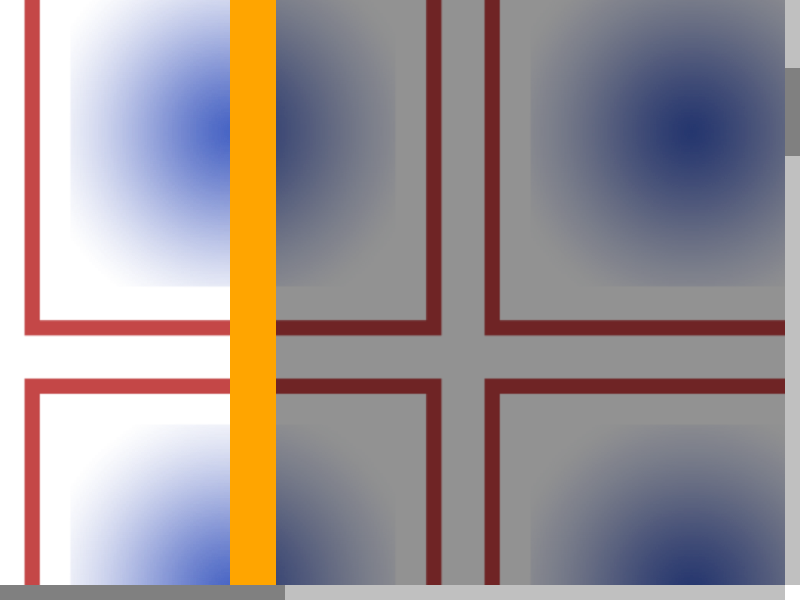
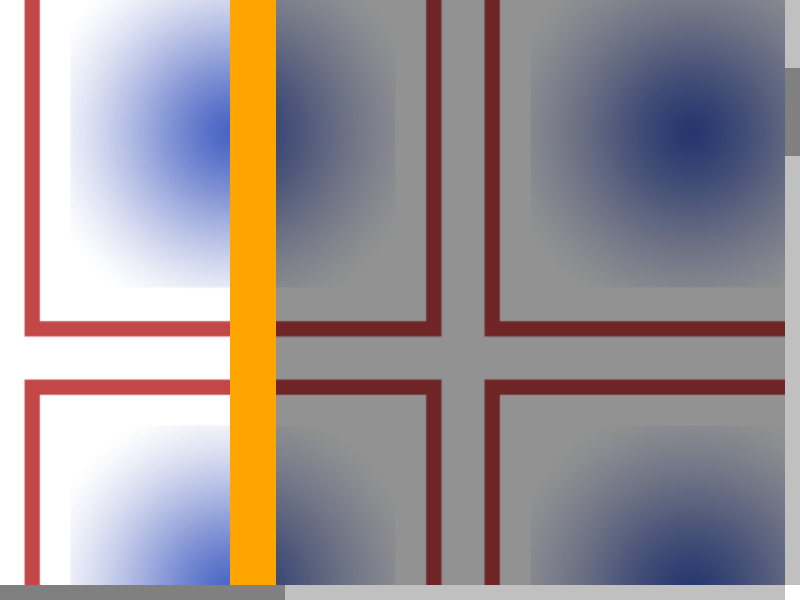
Change scrollOffsetForFixedPosition() to do LayoutUnit math https://bugs.webkit.org/show_bug.cgi?id=129981
Reviewed by Beth Dakin.

Source/WebCore:

FrameView::scrollOffsetForFixedPosition() returned an IntSize,
but to allow subpixel scroll offsets, we need it to return a LayoutSize.

Fix code that calls this to use more LayoutUnit math.

This progresses fixed background images on zoom, which cam now be subpixel
positioned.

* WebCore.exp.in:
* page/FrameView.cpp:
(WebCore::FrameView::viewportConstrainedVisibleContentRect):
(WebCore::FrameView::scrollOffsetForFixedPosition):
* page/FrameView.h:
* page/scrolling/AsyncScrollingCoordinator.cpp:
(WebCore::AsyncScrollingCoordinator::updateScrollPositionAfterAsyncScroll):
* platform/ScrollableArea.cpp:
(WebCore::ScrollableArea::constrainScrollPositionForOverhang):
* platform/ScrollableArea.h:
* rendering/RenderBoxModelObject.cpp:
(WebCore::RenderBoxModelObject::calculateBackgroundImageGeometry):
* rendering/RenderLayer.cpp:
(WebCore::RenderLayer::calculateClipRects):
* rendering/RenderLayerBacking.cpp:
(WebCore::RenderLayerBacking::updateGraphicsLayerGeometry):
* rendering/RenderLayerCompositor.cpp:
(WebCore::RenderLayerCompositor::updateScrollLayerPosition):

LayoutTests:

FrameView::scrollOffsetForFixedPosition() returned an IntSize,
but to allow subpixel scroll offsets, we need it to return a LayoutSize.

Update test results for the progression.

* platform/mac-wk2/tiled-drawing/fixed-background/fixed-body-background-zoomed-expected.png:
* platform/mac-wk2/tiled-drawing/fixed-background/fixed-body-background-zoomed-expected.txt:
[…]

diff --git a/Source/WebCore/platform/ScrollableArea.cpp b/Source/WebCore/platform/ScrollableArea.cpp
@@ -35,6 +35,7 @@
 #include "GraphicsContext.h"
 #include "GraphicsLayer.h"
 #include "FloatPoint.h"
+#include "LayoutRect.h"
 #include "PlatformWheelEvent.h"
 #include "ScrollAnimator.h"
 #include "ScrollbarTheme.h"
@@ -477,13 +478,13 @@ IntRect ScrollableArea::visibleContentRectInternal(VisibleContentRectIncludesScr
                    std::max(0, visibleHeight() + horizontalScrollbarHeight));
 }
 
-IntPoint ScrollableArea::constrainScrollPositionForOverhang(const IntRect& visibleContentRect, const IntSize& totalContentsSize, const IntPoint& scrollPosition, const IntPoint& scrollOrigin, int headerHeight, int footerHeight)
+LayoutPoint ScrollableArea::constrainScrollPositionForOverhang(const LayoutRect& visibleContentRect, const LayoutSize& totalContentsSize, const LayoutPoint& scrollPosition, const LayoutPoint& scrollOrigin, int headerHeight, int footerHeight)
 {
     // The viewport rect that we're scrolling shouldn't be larger than our document.
-    IntSize idealScrollRectSize(std::min(visibleContentRect.width(), totalContentsSize.width()), std::min(visibleContentRect.height(), totalContentsSize.height()));
+    LayoutSize idealScrollRectSize(std::min(visibleContentRect.width(), totalContentsSize.width()), std::min(visibleContentRect.height(), totalContentsSize.height()));
     
-    IntRect scrollRect(scrollPosition + scrollOrigin - IntSize(0, headerHeight), idealScrollRectSize);
-    IntRect documentRect(IntPoint(), IntSize(totalContentsSize.width(), totalContentsSize.height() - headerHeight - footerHeight));
+    LayoutRect scrollRect(scrollPosition + scrollOrigin - LayoutSize(0, headerHeight), idealScrollRectSize);
+    LayoutRect documentRect(LayoutPoint(), LayoutSize(totalContentsSize.width(), totalContentsSize.height() - headerHeight - footerHeight));
 
     // Use intersection to constrain our ideal scroll rect by the document rect.
     scrollRect.intersect(documentRect);
@@ -500,10 +501,10 @@ IntPoint ScrollableArea::constrainScrollPositionForOverhang(const IntRect& visib
             scrollRect.move(0, -(idealScrollRectSize.height() - scrollRect.height()));
     }
 
-    return scrollRect.location() - toIntSize(scrollOrigin);
+    return scrollRect.location() - toLayoutSize(scrollOrigin);
 }
 
-IntPoint ScrollableArea::constrainScrollPositionForOverhang(const IntPoint& scrollPosition)
+LayoutPoint ScrollableArea::constrainScrollPositionForOverhang(const LayoutPoint& scrollPosition)
 {
     return constrainScrollPositionForOverhang(visibleContentRect(), totalContentsSize(), scrollPosition, scrollOrigin(), headerHeight(), footerHeight());
 }

diff --git a/Source/WebCore/page/FrameView.cpp b/Source/WebCore/page/FrameView.cpp
@@ -1538,6 +1538,7 @@ LayoutRect FrameView::viewportConstrainedVisibleContentRect() const
         return customFixedPositionLayoutRect();
 #endif
     LayoutRect viewportRect = visibleContentRect();
+
     viewportRect.setLocation(toLayoutPoint(scrollOffsetForFixedPosition()));
     return viewportRect;
 }
@@ -1554,9 +1555,9 @@ LayoutRect FrameView::viewportConstrainedExtentRect() const
 #endif
 }
 
-IntSize FrameView::scrollOffsetForFixedPosition(const IntRect& visibleContentRect, const IntSize& totalContentsSize, const IntPoint& scrollPosition, const IntPoint& scrollOrigin, float frameScaleFactor, bool fixedElementsLayoutRelativeToFrame, ScrollBehaviorForFixedElements behaviorForFixed, int headerHeight, int footerHeight)
+LayoutSize FrameView::scrollOffsetForFixedPosition(const LayoutRect& visibleContentRect, const LayoutSize& totalContentsSize, const LayoutPoint& scrollPosition, const LayoutPoint& scrollOrigin, float frameScaleFactor, bool fixedElementsLayoutRelativeToFrame, ScrollBehaviorForFixedElements behaviorForFixed, int headerHeight, int footerHeight)
 {
-    IntPoint position;
+    LayoutPoint position;
     if (behaviorForFixed == StickToDocumentBounds)
         position = ScrollableArea::constrainScrollPositionForOverhang(visibleContentRect, totalContentsSize, scrollPosition, scrollOrigin, headerHeight, footerHeight);
     else {
@@ -1564,15 +1565,15 @@ IntSize FrameView::scrollOffsetForFixedPosition(const IntRect& visibleContentRec
         position.setY(position.y() - headerHeight);
     }
 
-    IntSize maxSize = totalContentsSize - visibleContentRect.size();
+    LayoutSize maxSize = totalContentsSize - visibleContentRect.size();
 
     float dragFactorX = (fixedElementsLayoutRelativeToFrame || !maxSize.width()) ? 1 : (totalContentsSize.width() - visibleContentRect.width() * frameScaleFactor) / maxSize.width();
     float dragFactorY = (fixedElementsLayoutRelativeToFrame || !maxSize.height()) ? 1 : (totalContentsSize.height() - visibleContentRect.height() * frameScaleFactor) / maxSize.height();
 
-    return IntSize(position.x() * dragFactorX / frameScaleFactor, position.y() * dragFactorY / frameScaleFactor);
+    return LayoutSize(position.x() * dragFactorX / frameScaleFactor, position.y() * dragFactorY / frameScaleFactor);
 }
 
-IntSize FrameView::scrollOffsetForFixedPosition() const
+LayoutSize FrameView::scrollOffsetForFixedPosition() const
 {
     IntRect visibleContentRect = this->visibleContentRect();
     IntSize totalContentsSize = this->totalContentsSize();

diff --git a/Source/WebCore/page/scrolling/AsyncScrollingCoordinator.cpp b/Source/WebCore/page/scrolling/AsyncScrollingCoordinator.cpp
@@ -212,12 +212,12 @@ void AsyncScrollingCoordinator::updateScrollPositionAfterAsyncScroll(ScrollingNo
             GraphicsLayer* counterScrollingLayer = counterScrollingLayerForFrameView(frameView);
             GraphicsLayer* headerLayer = headerLayerForFrameView(frameView);
             GraphicsLayer* footerLayer = footerLayerForFrameView(frameView);
-            IntSize scrollOffsetForFixed = frameView->scrollOffsetForFixedPosition();
+            LayoutSize scrollOffsetForFixed = frameView->scrollOffsetForFixedPosition();
 
             if (programmaticScroll || scrollingLayerPositionAction == SetScrollingLayerPosition) {
                 scrollLayer->setPosition(-frameView->scrollPosition());
                 if (counterScrollingLayer)
-                    counterScrollingLayer->setPosition(IntPoint(scrollOffsetForFixed));
+                    counterScrollingLayer->setPosition(toLayoutPoint(scrollOffsetForFixed));
                 if (headerLayer)
                     headerLayer->setPosition(FloatPoint(scrollOffsetForFixed.width(), 0));
                 if (footerLayer)
@@ -225,7 +225,7 @@ void AsyncScrollingCoordinator::updateScrollPositionAfterAsyncScroll(ScrollingNo
             } else {
                 scrollLayer->syncPosition(-frameView->scrollPosition());
                 if (counterScrollingLayer)
-                    counterScrollingLayer->syncPosition(IntPoint(scrollOffsetForFixed));
+                    counterScrollingLayer->syncPosition(toLayoutPoint(scrollOffsetForFixed));
                 if (headerLayer)
                     headerLayer->syncPosition(FloatPoint(scrollOffsetForFixed.width(), 0));
                 if (footerLayer)

diff --git a/Source/WebCore/platform/ScrollableArea.h b/Source/WebCore/platform/ScrollableArea.h
@@ -33,6 +33,8 @@ namespace WebCore {
 
 class FloatPoint;
 class GraphicsContext;
+class LayoutPoint;
+class LayoutSize;
 class PlatformTouchEvent;
 class PlatformWheelEvent;
 class ScrollAnimator;
@@ -200,8 +202,8 @@ public:
     // NOTE: Only called from Internals for testing.
     void setScrollOffsetFromInternals(const IntPoint&);
 
-    static IntPoint constrainScrollPositionForOverhang(const IntRect& visibleContentRect, const IntSize& totalContentsSize, const IntPoint& scrollPosition, const IntPoint& scrollOrigin, int headerHeight, int footetHeight);
-    IntPoint constrainScrollPositionForOverhang(const IntPoint& scrollPosition);
+    static LayoutPoint constrainScrollPositionForOverhang(const LayoutRect& visibleContentRect, const LayoutSize& totalContentsSize, const LayoutPoint& scrollPosition, const LayoutPoint& scrollOrigin, int headerHeight, int footetHeight);
+    LayoutPoint constrainScrollPositionForOverhang(const LayoutPoint& scrollPosition);
 
     // Computes the double value for the scrollbar's current position and the current overhang amount.
     // This function is static so that it can be called from the main thread or the scrolling thread.

diff --git a/Source/WebCore/page/FrameView.h b/Source/WebCore/page/FrameView.h
@@ -262,9 +262,9 @@ public:
 
     // Functions for querying the current scrolled position, negating the effects of overhang
     // and adjusting for page scale.
-    IntSize scrollOffsetForFixedPosition() const;
+    LayoutSize scrollOffsetForFixedPosition() const;
     // Static function can be called from another thread.
-    static IntSize scrollOffsetForFixedPosition(const IntRect& visibleContentRect, const IntSize& totalContentsSize, const IntPoint& scrollPosition, const IntPoint& scrollOrigin, float frameScaleFactor, bool fixedElementsLayoutRelativeToFrame, ScrollBehaviorForFixedElements, int headerHeight, int footerHeight);
+    static LayoutSize scrollOffsetForFixedPosition(const LayoutRect& visibleContentRect, const LayoutSize& totalContentsSize, const LayoutPoint& scrollPosition, const LayoutPoint& scrollOrigin, float frameScaleFactor, bool fixedElementsLayoutRelativeToFrame, ScrollBehaviorForFixedElements, int headerHeight, int footerHeight);
 
     bool fixedElementsLayoutRelativeToFrame() const;
 

diff --git a/Source/WebCore/rendering/RenderBoxModelObject.cpp b/Source/WebCore/rendering/RenderBoxModelObject.cpp
@@ -1111,14 +1111,14 @@ void RenderBoxModelObject::calculateBackgroundImageGeometry(const RenderLayerMod
     } else {
         geometry.setHasNonLocalGeometry();
 
-        IntRect viewportRect = pixelSnappedIntRect(view().viewRect());
+        LayoutRect viewportRect = view().viewRect();
         if (fixedBackgroundPaintsInLocalCoordinates())
-            viewportRect.setLocation(IntPoint());
+            viewportRect.setLocation(LayoutPoint());
         else
-            viewportRect.setLocation(IntPoint(view().frameView().scrollOffsetForFixedPosition()));
+            viewportRect.setLocation(toLayoutPoint(view().frameView().scrollOffsetForFixedPosition()));
 
         if (paintContainer) {
-            IntPoint absoluteContainerOffset = roundedIntPoint(paintContainer->localToAbsolute(FloatPoint()));
+            LayoutPoint absoluteContainerOffset = roundedLayoutPoint(paintContainer->localToAbsolute(FloatPoint()));
             viewportRect.moveBy(-absoluteContainerOffset);
         }
 

diff --git a/Source/WebCore/page/scrolling/mac/ScrollingTreeScrollingNodeMac.mm b/Source/WebCore/page/scrolling/mac/ScrollingTreeScrollingNodeMac.mm
@@ -343,7 +343,7 @@ void ScrollingTreeScrollingNodeMac::setScrollLayerPosition(const FloatPoint& pos
 
     ScrollBehaviorForFixedElements behaviorForFixed = scrollBehaviorForFixedElements();
     FloatPoint scrollOffset = position - toFloatSize(scrollOrigin());
-    // FIXME: scrollOffsetForFixedPosition() needs to do float math.
+
     FloatSize scrollOffsetForFixedChildren = FrameView::scrollOffsetForFixedPosition(enclosingIntRect(viewportConstrainedObjectRect()), totalContentsSize(), flooredIntPoint(scrollOffset), scrollOrigin(), frameScaleFactor(), false, behaviorForFixed, headerHeight(), footerHeight());
     if (m_counterScrollingLayer)
         m_counterScrollingLayer.get().position = FloatPoint(scrollOffsetForFixedChildren);

diff --git a/Source/WebCore/page/scrolling/ios/ScrollingTreeScrollingNodeIOS.mm b/Source/WebCore/page/scrolling/ios/ScrollingTreeScrollingNodeIOS.mm
@@ -136,7 +136,7 @@ void ScrollingTreeScrollingNodeIOS::setScrollLayerPosition(const FloatPoint& pos
 
     ScrollBehaviorForFixedElements behaviorForFixed = scrollBehaviorForFixedElements();
     FloatPoint scrollOffset = position - toIntSize(scrollOrigin());
-    // FIXME: scrollOffsetForFixedPosition() needs to do float math.
+
     FloatSize scrollOffsetForFixedChildren = FrameView::scrollOffsetForFixedPosition(enclosingIntRect(viewportConstrainedObjectRect()), totalContentsSize(), flooredIntPoint(scrollOffset), scrollOrigin(), frameScaleFactor(), false, behaviorForFixed, headerHeight(), footerHeight());
     if (m_counterScrollingLayer)
         m_counterScrollingLayer.get().position = FloatPoint(scrollOffsetForFixedChildren);

diff --git a/Source/WebCore/rendering/RenderLayerBacking.cpp b/Source/WebCore/rendering/RenderLayerBacking.cpp
@@ -899,7 +899,7 @@ void RenderLayerBacking::updateGraphicsLayerGeometry()
         FloatSize backgroundSize = contentsSize;
         if (backgroundLayerPaintsFixedRootBackground()) {
             const FrameView& frameView = renderer().view().frameView();
-            backgroundPosition = IntPoint(frameView.scrollOffsetForFixedPosition());
+            backgroundPosition = toLayoutPoint(frameView.scrollOffsetForFixedPosition());
             backgroundSize = frameView.visibleContentRect().size();
         }
         m_backgroundLayer->setPosition(backgroundPosition);

diff --git a/Source/WebCore/rendering/RenderLayerCompositor.cpp b/Source/WebCore/rendering/RenderLayerCompositor.cpp
@@ -1510,7 +1510,7 @@ void RenderLayerCompositor::updateScrollLayerPosition()
     m_scrollLayer->setPosition(FloatPoint(-scrollPosition.x(), -scrollPosition.y()));
 
     if (GraphicsLayer* fixedBackgroundLayer = fixedRootBackgroundLayer())
-        fixedBackgroundLayer->setPosition(IntPoint(frameView.scrollOffsetForFixedPosition()));
+        fixedBackgroundLayer->setPosition(toLayoutPoint(frameView.scrollOffsetForFixedPosition()));
 }
 
 void RenderLayerCompositor::frameViewDidScroll()
